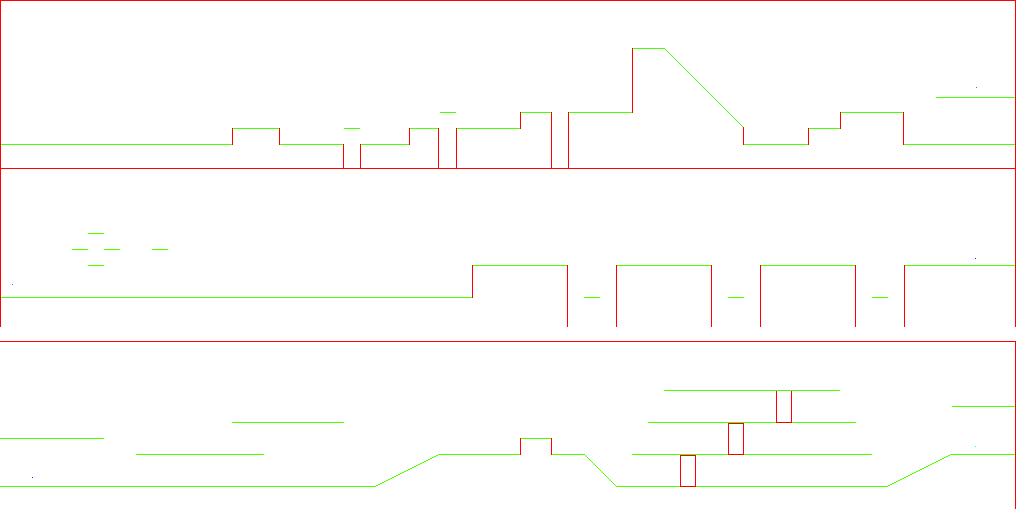
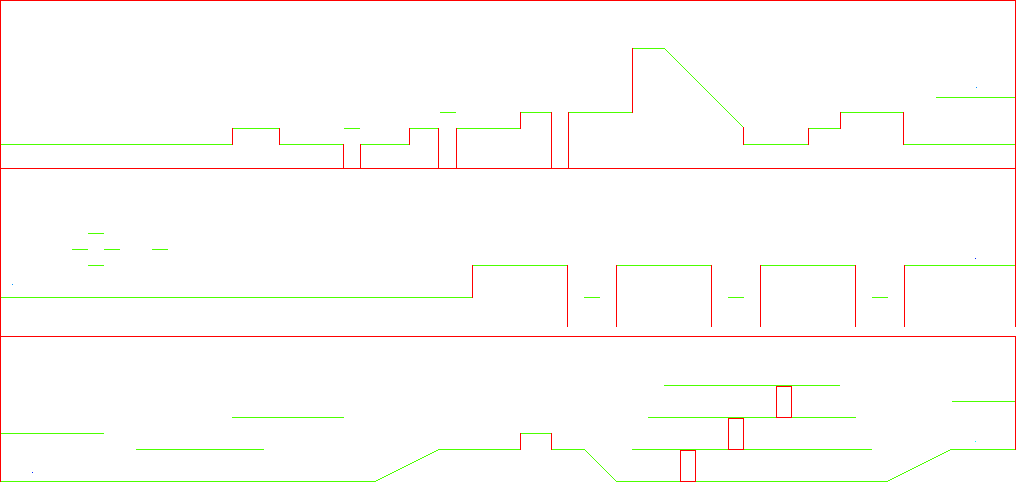
view area divides by 3 for each new level

diff --git a/src/GameController.cpp b/src/GameController.cpp
@@ -170,6 +170,20 @@ void GameController::loadLevel(int levelNum)
 	m_worldMap = m_level->getWorldMap(); // Load the world map for the level
 	m_allGameObjects = m_level->getObjects(); // Load all objects from the level
 	m_enemies = m_level->getEnemies(); // Load all enemies from the level
+
+	// --- CAMERA SETUP PER LEVEL ---
+	if (m_worldMap)
+	{
+		// 1. Calculate the new height for each of the three vertical sections.
+		float newViewHeight = m_worldMap->getSize().y / 3.0f;
+
+		// 2. Update our logical variable for camera snapping.
+		m_levelAreaHeight = newViewHeight;
+
+		// 3. IMPORTANT: Update the actual sf::View object with the new size.
+		// We keep the original width to maintain the aspect ratio you've defined.
+		m_view.setSize(VIEW_WIDTH, newViewHeight);
+	}
 }
 
 void GameController::update(float deltaTime)
